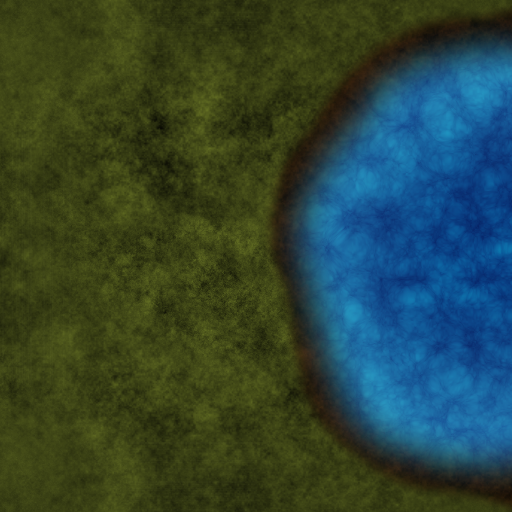
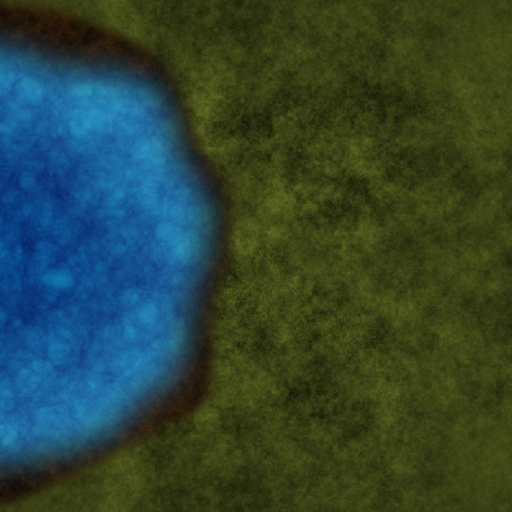
added texturing abilities

diff --git a/fbx_convert_prog/main.cpp b/fbx_convert_prog/main.cpp
@@ -170,6 +170,13 @@ public:
     }
 };
 
+int getColor(unsigned char* data, int width, int x, int y, int rgb)
+{
+    // rgb should be 0 for red, 1 for green, 2 for blue
+    int index = (3 * x) + (3 * width * y) + rgb;
+    return (int)data[index];
+}
+
 camera mycam;
 Board board;
 static Character* activeUnit; //current selected unit, global
@@ -201,6 +208,7 @@ public:
 	GLuint TexHector, TexMarth;
 	GLuint swrdTex, spearTex, axeTex, magicTex;
 	GLuint guiTeam1Tex, guiTeam2Tex; //Gui textures
+    GLuint layoutTex, grass, grassToRockyLeft, grassToRockyRight, rocky, lake, waterCenter, waterLeft, waterRight;
 	//line
 	Line linerender;
 	Line smoothrender;
@@ -217,6 +225,15 @@ public:
 	//animated hud variables
 	int boolTeamHUD;
 	float animateHudTeam1, animateHudTeam2;
+
+    vector<vec3> blackBlocks;
+    vector<vec3> redBlocks;
+    vector<vec3> blueBlocks;
+    vector<vec3> greenBlocks;
+    vector<vec3> yellowBlocks;
+    vector<vec3> whiteBlocks;
+    vector<vec3> magentaBlocks;
+    vector<vec3> tealBlocks;
     
 
 	void keyCallback(GLFWwindow *window, int key, int scancode, int action, int mods)
@@ -627,11 +644,14 @@ public:
 		int width, height, channels;
 		char filepath[1000];
 
+
 		//-- ANIMATED SPRITE TEXTURES --//
 		//sword units
 		string str = resourceDirectory + "/swordMaster-spritesheet.png"; // actually get the first sprite texture
 		strcpy(filepath, str.c_str());
 		unsigned char* data = stbi_load(filepath, &width, &height, &channels, 4);
+        unsigned char* dataLayout = stbi_load(filepath, &width, &height, &channels, 3);
+        unsigned char* data1 = stbi_load(filepath, &width, &height, &channels, 4);
 		glGenTextures(1, &swrdTex);
 		//glGenTextures(1, &swrdTex2);
 		glActiveTexture(GL_TEXTURE0);
@@ -876,6 +896,141 @@ public:
 		glUniform1i(Tex1Location, 0);
 		glUniform1i(Tex2Location, 1);
         glUniform1i(Tex3Location, 1);
+
+        // load map file
+        str = resourceDirectory + "/TexTerrain/map1.bmp";
+        strcpy(filepath, str.c_str());
+        dataLayout = stbi_load(filepath, &width, &height, &channels, 3);
+        glGenTextures(1, &layoutTex);
+        glActiveTexture(GL_TEXTURE0);
+        glBindTexture(GL_TEXTURE_2D, layoutTex);
+        glTexParameteri(GL_TEXTURE_2D, GL_TEXTURE_WRAP_S, GL_MIRRORED_REPEAT);
+        glTexParameteri(GL_TEXTURE_2D, GL_TEXTURE_WRAP_T, GL_MIRRORED_REPEAT);
+        glTexParameteri(GL_TEXTURE_2D, GL_TEXTURE_MIN_FILTER, GL_NEAREST);
+        glTexParameteri(GL_TEXTURE_2D, GL_TEXTURE_MAG_FILTER, GL_NEAREST);
+        glTexImage2D(GL_TEXTURE_2D, 0, GL_RGBA8, width, height, 0, GL_RGBA, GL_UNSIGNED_BYTE, dataLayout);
+        glGenerateMipmap(GL_TEXTURE_2D);
+        cout << "Loaded " << str << endl;
+
+        str = resourceDirectory + "/TexTerrain/GrassTextureA.png";
+        strcpy(filepath, str.c_str());
+        data1 = stbi_load(filepath, &width, &height, &channels, 4);
+        glGenTextures(1, &grass);
+        glActiveTexture(GL_TEXTURE0);
+        glBindTexture(GL_TEXTURE_2D, grass);
+        glTexParameteri(GL_TEXTURE_2D, GL_TEXTURE_WRAP_S, GL_MIRRORED_REPEAT);
+        glTexParameteri(GL_TEXTURE_2D, GL_TEXTURE_WRAP_T, GL_MIRRORED_REPEAT);
+        glTexParameteri(GL_TEXTURE_2D, GL_TEXTURE_MIN_FILTER, GL_NEAREST);
+        glTexParameteri(GL_TEXTURE_2D, GL_TEXTURE_MAG_FILTER, GL_NEAREST);
+        glTexImage2D(GL_TEXTURE_2D, 0, GL_RGBA8, width, height, 0, GL_RGBA, GL_UNSIGNED_BYTE, data1); // errors out?
+        glGenerateMipmap(GL_TEXTURE_2D);
+        cout << "Loaded " << str << endl;
+
+        str = resourceDirectory + "/TexTerrain/GrassToRockyLeftTex.png";
+        strcpy(filepath, str.c_str());
+        data1 = stbi_load(filepath, &width, &height, &channels, 4);
+        glGenTextures(1, &grassToRockyLeft);
+        glActiveTexture(GL_TEXTURE0);
+        glBindTexture(GL_TEXTURE_2D, grassToRockyLeft);
+        glTexParameteri(GL_TEXTURE_2D, GL_TEXTURE_WRAP_S, GL_MIRRORED_REPEAT);
+        glTexParameteri(GL_TEXTURE_2D, GL_TEXTURE_WRAP_T, GL_MIRRORED_REPEAT);
+        glTexParameteri(GL_TEXTURE_2D, GL_TEXTURE_MIN_FILTER, GL_NEAREST);
+        glTexParameteri(GL_TEXTURE_2D, GL_TEXTURE_MAG_FILTER, GL_NEAREST);
+        glTexImage2D(GL_TEXTURE_2D, 0, GL_RGBA8, width, height, 0, GL_RGBA, GL_UNSIGNED_BYTE, data1);
+        glGenerateMipmap(GL_TEXTURE_2D);
+        cout << "Loaded " << str << endl;
+
+        str = resourceDirectory + "/TexTerrain/GrassToRockyRightTex.png";
+        strcpy(filepath, str.c_str());
+        data1 = stbi_load(filepath, &width, &height, &channels, 4);
+        glGenTextures(1, &grassToRockyRight);
+        glActiveTexture(GL_TEXTURE0);
+        glBindTexture(GL_TEXTURE_2D, grassToRockyRight);
+        glTexParameteri(GL_TEXTURE_2D, GL_TEXTURE_WRAP_S, GL_MIRRORED_REPEAT);
+        glTexParameteri(GL_TEXTURE_2D, GL_TEXTURE_WRAP_T, GL_MIRRORED_REPEAT);
+        glTexParameteri(GL_TEXTURE_2D, GL_TEXTURE_MIN_FILTER, GL_NEAREST);
+        glTexParameteri(GL_TEXTURE_2D, GL_TEXTURE_MAG_FILTER, GL_NEAREST);
+        glTexImage2D(GL_TEXTURE_2D, 0, GL_RGBA8, width, height, 0, GL_RGBA, GL_UNSIGNED_BYTE, data1);
+        glGenerateMipmap(GL_TEXTURE_2D);
+        cout << "Loaded " << str << endl;
+
+        str = resourceDirectory + "/TexTerrain/RockyTextureA.png";
+        strcpy(filepath, str.c_str());
+        data1 = stbi_load(filepath, &width, &height, &channels, 4);
+        glGenTextures(1, &rocky);
+        glActiveTexture(GL_TEXTURE0);
+        glBindTexture(GL_TEXTURE_2D, rocky);
+        glTexParameteri(GL_TEXTURE_2D, GL_TEXTURE_WRAP_S, GL_MIRRORED_REPEAT);
+        glTexParameteri(GL_TEXTURE_2D, GL_TEXTURE_WRAP_T, GL_MIRRORED_REPEAT);
+        glTexParameteri(GL_TEXTURE_2D, GL_TEXTURE_MIN_FILTER, GL_NEAREST);
+        glTexParameteri(GL_TEXTURE_2D, GL_TEXTURE_MAG_FILTER, GL_NEAREST);
+        glTexImage2D(GL_TEXTURE_2D, 0, GL_RGBA8, width, height, 0, GL_RGBA, GL_UNSIGNED_BYTE, data1);
+        glGenerateMipmap(GL_TEXTURE_2D);
+        cout << "Loaded " << str << endl;
+
+        str = resourceDirectory + "/TexTerrain/SmallLakeTexture.png";
+        strcpy(filepath, str.c_str());
+        data1 = stbi_load(filepath, &width, &height, &channels, 4);
+        glGenTextures(1, &lake);
+        glActiveTexture(GL_TEXTURE0);
+        glBindTexture(GL_TEXTURE_2D, lake);
+        glTexParameteri(GL_TEXTURE_2D, GL_TEXTURE_WRAP_S, GL_MIRRORED_REPEAT);
+        glTexParameteri(GL_TEXTURE_2D, GL_TEXTURE_WRAP_T, GL_MIRRORED_REPEAT);
+        glTexParameteri(GL_TEXTURE_2D, GL_TEXTURE_MIN_FILTER, GL_NEAREST);
+        glTexParameteri(GL_TEXTURE_2D, GL_TEXTURE_MAG_FILTER, GL_NEAREST);
+        glTexImage2D(GL_TEXTURE_2D, 0, GL_RGBA8, width, height, 0, GL_RGBA, GL_UNSIGNED_BYTE, data1);
+        glGenerateMipmap(GL_TEXTURE_2D);
+        cout << "Loaded " << str << endl;
+
+        str = resourceDirectory + "/TexTerrain/waterGrassHorizontalTex.png";
+        strcpy(filepath, str.c_str());
+        data1 = stbi_load(filepath, &width, &height, &channels, 4);
+        glGenTextures(1, &waterCenter);
+        glActiveTexture(GL_TEXTURE0);
+        glBindTexture(GL_TEXTURE_2D, waterCenter);
+        glTexParameteri(GL_TEXTURE_2D, GL_TEXTURE_WRAP_S, GL_MIRRORED_REPEAT);
+        glTexParameteri(GL_TEXTURE_2D, GL_TEXTURE_WRAP_T, GL_MIRRORED_REPEAT);
+        glTexParameteri(GL_TEXTURE_2D, GL_TEXTURE_MIN_FILTER, GL_NEAREST);
+        glTexParameteri(GL_TEXTURE_2D, GL_TEXTURE_MAG_FILTER, GL_NEAREST);
+        glTexImage2D(GL_TEXTURE_2D, 0, GL_RGBA8, width, height, 0, GL_RGBA, GL_UNSIGNED_BYTE, data1);
+        glGenerateMipmap(GL_TEXTURE_2D);
+        cout << "Loaded " << str << endl;
+
+        str = resourceDirectory + "/TexTerrain/WaterGrassSwitchLeftTex.png";
+        strcpy(filepath, str.c_str());
+        data1 = stbi_load(filepath, &width, &height, &channels, 4);
+        glGenTextures(1, &waterLeft);
+        glActiveTexture(GL_TEXTURE0);
+        glBindTexture(GL_TEXTURE_2D, waterLeft);
+        glTexParameteri(GL_TEXTURE_2D, GL_TEXTURE_WRAP_S, GL_MIRRORED_REPEAT);
+        glTexParameteri(GL_TEXTURE_2D, GL_TEXTURE_WRAP_T, GL_MIRRORED_REPEAT);
+        glTexParameteri(GL_TEXTURE_2D, GL_TEXTURE_MIN_FILTER, GL_NEAREST);
+        glTexParameteri(GL_TEXTURE_2D, GL_TEXTURE_MAG_FILTER, GL_NEAREST);
+        glTexImage2D(GL_TEXTURE_2D, 0, GL_RGBA8, width, height, 0, GL_RGBA, GL_UNSIGNED_BYTE, data1);
+        glGenerateMipmap(GL_TEXTURE_2D);
+        cout << "Loaded " << str << endl;
+
+        str = resourceDirectory + "/TexTerrain/WaterGrassSwitchRightTex.png";
+        strcpy(filepath, str.c_str());
+        data1 = stbi_load(filepath, &width, &height, &channels, 4);
+        glGenTextures(1, &waterRight);
+        glActiveTexture(GL_TEXTURE0);
+        glBindTexture(GL_TEXTURE_2D, waterRight);
+        glTexParameteri(GL_TEXTURE_2D, GL_TEXTURE_WRAP_S, GL_MIRRORED_REPEAT);
+        glTexParameteri(GL_TEXTURE_2D, GL_TEXTURE_WRAP_T, GL_MIRRORED_REPEAT);
+        glTexParameteri(GL_TEXTURE_2D, GL_TEXTURE_MIN_FILTER, GL_NEAREST);
+        glTexParameteri(GL_TEXTURE_2D, GL_TEXTURE_MAG_FILTER, GL_NEAREST);
+        glTexImage2D(GL_TEXTURE_2D, 0, GL_RGBA8, width, height, 0, GL_RGBA, GL_UNSIGNED_BYTE, data1);
+        glGenerateMipmap(GL_TEXTURE_2D);
+        cout << "Loaded " << str << endl;
+
+        //Tex1Location = glGetUniformLocation(bricks->pid, "tex1");//tex, tex2... sampler in the fragment shader
+        //Tex2Location = glGetUniformLocation(bricks->pid, "tex2");
+        //// Then bind the uniform samplers to texture units:
+        //glUseProgram(bricks->pid);
+        //glUniform1i(Tex1Location, 0);
+        //glUniform1i(Tex2Location, 1);
+
 		smoothrender.init();
 		linerender.init();
 		line.push_back(vec3(0,0,-3));
@@ -895,6 +1050,52 @@ public:
             for (int j = 0; j < mapHeight; j++) {
                 vec3 blockPos = vec3(i, 0, j) - vec3(mapWidth / 2, 0 , mapHeight / 2);
                 mapBlocks.push_back(blockPos);
+            }
+        }
+
+        for (int i = 0; i < 10; i++)
+        {
+            for (int j = 0; j < 10; j++)
+            {
+                int red = getColor(dataLayout, 10, i, j, 0);
+                int green = getColor(dataLayout, 10, i, j, 1);
+                int blue = getColor(dataLayout, 10, i, j, 2);
+
+                vec3 newPos = vec3(i, 0, j) - vec3(mapWidth / 2, 0, mapHeight / 2);
+
+                if (red == 0 && green == 0 && blue == 0) // black
+                {
+                    blackBlocks.push_back(newPos);
+                }
+                if (red == 255 && green == 0 && blue == 0) // red
+                {
+                    redBlocks.push_back(newPos);
+                }
+                if (red == 0 && green == 255 && blue == 0) // green
+                {
+                    greenBlocks.push_back(newPos);
+                }
+                if (red == 0 && green == 0 && blue == 255) // blue
+                {
+                    blueBlocks.push_back(newPos);
+                }
+                if (red == 255 && green == 255 && blue == 0) // yellow
+                {
+                    yellowBlocks.push_back(newPos);
+                }
+                if (red == 255 && green == 255 && blue == 255) // white
+                {
+                    whiteBlocks.push_back(newPos);
+                }
+                if (red == 255 && green == 0 && blue == 255) // magenta
+                {
+                    magentaBlocks.push_back(newPos);
+                }
+                if (red == 124 && green == 255 && blue == 255) // teal
+                {
+                    tealBlocks.push_back(newPos);
+                }
+                
             }
         }
         
@@ -1626,16 +1827,124 @@ public:
         glActiveTexture(GL_TEXTURE0);
         glBindTexture(GL_TEXTURE_2D, Texture3);
         S = glm::scale(glm::mat4(1.0f), glm::vec3(0.5f, 0.5f, 0.5f));
-        for (int i = 0; i < board.getBoardWidth() * board.getBoardHeight(); i++) { //draw the game grid block by block
-            vec3 newPos = board.mapBlocks[i];
+   //     for (int i = 0; i < board.getBoardWidth() * board.getBoardHeight(); i++) { //draw the game grid block by block
+   //         vec3 newPos = board.mapBlocks[i];
+   //         newPos.x *= -1;
+   //         newPos.z *= -1;
+			//glm::mat4 TranstoMap = glm::translate(glm::mat4(1.0f), newPos); //translate to the pos stored in the gameboard
+			//glm:mat4 TransPos = glm::translate(glm::mat4(1.0f), vec3(0, -0.0005, 0.0)); //additional transformations to what the game board stores
+   //         M = TransPos * TranstoMap * S;
+   //         glUniformMatrix4fv(bricks->getUniform("M"), 1, GL_FALSE, &M[0][0]);
+   //         brick->draw(bricks, FALSE);
+   //     }
+        vec3 newPos;
+        glm::mat4 TranstoMap, TransPos;
+
+        glActiveTexture(GL_TEXTURE0);
+        glBindTexture(GL_TEXTURE_2D, grass);
+        for (int i = 0; i < blackBlocks.size(); i++) { //draw the game grid block by block
+            vec3 newPos = blackBlocks[i];
             newPos.x *= -1;
             newPos.z *= -1;
-			glm::mat4 TranstoMap = glm::translate(glm::mat4(1.0f), newPos); //translate to the pos stored in the gameboard
-			glm:mat4 TransPos = glm::translate(glm::mat4(1.0f), vec3(0, -0.0005, 0.0)); //additional transformations to what the game board stores
+            TranstoMap = glm::translate(glm::mat4(1.0f), newPos); //translate to the pos stored in the gameboard
+            TransPos = glm::translate(glm::mat4(1.0f), vec3(0, -0.0005, 0.0)); //additional transformations to what the game board stores
             M = TransPos * TranstoMap * S;
             glUniformMatrix4fv(bricks->getUniform("M"), 1, GL_FALSE, &M[0][0]);
             brick->draw(bricks, FALSE);
         }
+
+        glActiveTexture(GL_TEXTURE0);
+        glBindTexture(GL_TEXTURE_2D, grassToRockyLeft);
+        for (int i = 0; i < redBlocks.size(); i++) { //draw the game grid block by block
+            newPos = redBlocks[i];
+            newPos.x *= -1;
+            newPos.z *= -1;
+            TranstoMap = glm::translate(glm::mat4(1.0f), newPos); //translate to the pos stored in the gameboard
+            TransPos = glm::translate(glm::mat4(1.0f), vec3(0, -0.0005, 0.0)); //additional transformations to what the game board stores
+            M = TransPos * TranstoMap * S;
+            glUniformMatrix4fv(bricks->getUniform("M"), 1, GL_FALSE, &M[0][0]);
+            brick->draw(bricks, FALSE);
+        }
+
+        glActiveTexture(GL_TEXTURE0);
+        glBindTexture(GL_TEXTURE_2D, grassToRockyRight);
+        for (int i = 0; i < greenBlocks.size(); i++) { //draw the game grid block by block
+            newPos = greenBlocks[i];
+            newPos.x *= -1;
+            newPos.z *= -1;
+            TranstoMap = glm::translate(glm::mat4(1.0f), newPos); //translate to the pos stored in the gameboard
+            TransPos = glm::translate(glm::mat4(1.0f), vec3(0, -0.0005, 0.0)); //additional transformations to what the game board stores
+            M = TransPos * TranstoMap * S;
+            glUniformMatrix4fv(bricks->getUniform("M"), 1, GL_FALSE, &M[0][0]);
+            brick->draw(bricks, FALSE);
+        }
+
+        glActiveTexture(GL_TEXTURE0);
+        glBindTexture(GL_TEXTURE_2D, rocky);
+        for (int i = 0; i < yellowBlocks.size(); i++) { //draw the game grid block by block
+            newPos = yellowBlocks[i];
+            newPos.x *= -1;
+            newPos.z *= -1;
+            TranstoMap = glm::translate(glm::mat4(1.0f), newPos); //translate to the pos stored in the gameboard
+            TransPos = glm::translate(glm::mat4(1.0f), vec3(0, -0.0005, 0.0)); //additional transformations to what the game board stores
+            M = TransPos * TranstoMap * S;
+            glUniformMatrix4fv(bricks->getUniform("M"), 1, GL_FALSE, &M[0][0]);
+            brick->draw(bricks, FALSE);
+        }
+
+        glActiveTexture(GL_TEXTURE0);
+        glBindTexture(GL_TEXTURE_2D, lake);
+        for (int i = 0; i < blueBlocks.size(); i++) { //draw the game grid block by block
+            newPos = blueBlocks[i];
+            newPos.x *= -1;
+            newPos.z *= -1;
+            TranstoMap = glm::translate(glm::mat4(1.0f), newPos); //translate to the pos stored in the gameboard
+            TransPos = glm::translate(glm::mat4(1.0f), vec3(0, -0.0005, 0.0)); //additional transformations to what the game board stores
+            M = TransPos * TranstoMap * S;
+            glUniformMatrix4fv(bricks->getUniform("M"), 1, GL_FALSE, &M[0][0]);
+            brick->draw(bricks, FALSE);
+        }
+
+        glActiveTexture(GL_TEXTURE0);
+        glBindTexture(GL_TEXTURE_2D, waterCenter);
+        for (int i = 0; i < whiteBlocks.size(); i++) { //draw the game grid block by block
+            newPos = whiteBlocks[i];
+            newPos.x *= -1;
+            newPos.z *= -1;
+            TranstoMap = glm::translate(glm::mat4(1.0f), newPos); //translate to the pos stored in the gameboard
+            TransPos = glm::translate(glm::mat4(1.0f), vec3(0, -0.0005, 0.0)); //additional transformations to what the game board stores
+            M = TransPos * TranstoMap * S;
+            glUniformMatrix4fv(bricks->getUniform("M"), 1, GL_FALSE, &M[0][0]);
+            brick->draw(bricks, FALSE);
+        }
+
+        glActiveTexture(GL_TEXTURE0);
+        glBindTexture(GL_TEXTURE_2D, waterLeft);
+        for (int i = 0; i < magentaBlocks.size(); i++) { //draw the game grid block by block
+            newPos = magentaBlocks[i];
+            newPos.x *= -1;
+            newPos.z *= -1;
+            TranstoMap = glm::translate(glm::mat4(1.0f), newPos); //translate to the pos stored in the gameboard
+            TransPos = glm::translate(glm::mat4(1.0f), vec3(0, -0.0005, 0.0)); //additional transformations to what the game board stores
+            M = TransPos * TranstoMap * S;
+            glUniformMatrix4fv(bricks->getUniform("M"), 1, GL_FALSE, &M[0][0]);
+            brick->draw(bricks, FALSE);
+        }
+
+        glActiveTexture(GL_TEXTURE0);
+        glBindTexture(GL_TEXTURE_2D, waterRight);
+        for (int i = 0; i < tealBlocks.size(); i++) { //draw the game grid block by block
+            newPos = tealBlocks[i];
+            newPos.x *= -1;
+            newPos.z *= -1;
+            TranstoMap = glm::translate(glm::mat4(1.0f), newPos); //translate to the pos stored in the gameboard
+            TransPos = glm::translate(glm::mat4(1.0f), vec3(0, -0.0005, 0.0)); //additional transformations to what the game board stores
+            M = TransPos * TranstoMap * S;
+            glUniformMatrix4fv(bricks->getUniform("M"), 1, GL_FALSE, &M[0][0]);
+            brick->draw(bricks, FALSE);
+        }
+
+
         
         bricks->unbind();
 
@@ -1658,8 +1967,8 @@ public:
 		glUniformMatrix4fv(billboards->getUniform("P"), 1, GL_FALSE, &P[0][0]); //send p and v matrices to the shader
 		glUniformMatrix4fv(billboards->getUniform("V"), 1, GL_FALSE, &V[0][0]);
 		//do transformations and upload model matrix to shader
-		glm::mat4 TranstoMap = glm::translate(glm::mat4(1.0f), board.mapBlocks[board.mapBlocks.size()/2]); //translate to the pos stored in the middle of the gameboard
-		glm::mat4 TransPos = glm::translate(glm::mat4(1.0f), vec3(-5.5, 1.5, 10.5)); //additional transformations to what the game board stores
+		TranstoMap = glm::translate(glm::mat4(1.0f), board.mapBlocks[board.mapBlocks.size()/2]); //translate to the pos stored in the middle of the gameboard
+		TransPos = glm::translate(glm::mat4(1.0f), vec3(-5.5, 1.5, 10.5)); //additional transformations to what the game board stores
 		//set up a variable that gets set at the start of this teams turn after combat so this flies in
 		
 		glm::mat4 TanimatedFlyIn = glm::translate(glm::mat4(1.0f), vec3(animateHudTeam1, 0, 0));
